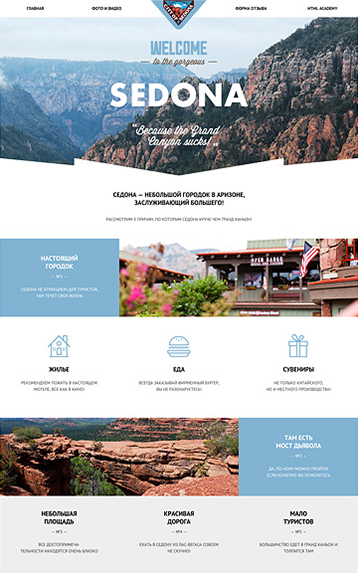
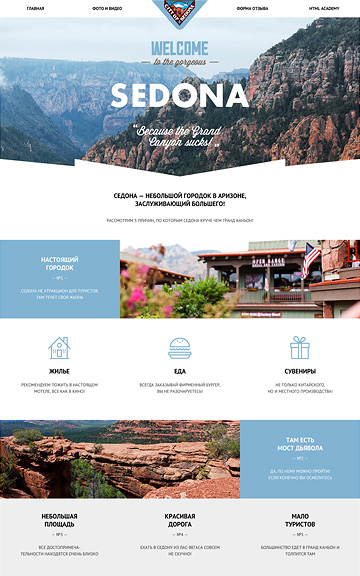
Внесены правки

diff --git a/css/style.min.css b/css/style.min.css
@@ -1,1 +1,1 @@
-body{min-width:1200px;margin:0;padding:0;font-size:16px;font-family:"Roboto","Verdana",sans-serif;font-weight:400;color:#283136;line-height:1.6}a:active,a:focus,button:active,button:focus,input:active,input:focus,textarea:active,textarea:focus{outline:none}h1,h2{font-size:55px;font-family:"Roboto","Verdana",sans-serif;font-weight:medium;color:#000;line-height:1}h2{font-size:24px;font-weight:700}.clearfix::after{content:"";display:table;clear:both}.container{width:1160px;margin:0 auto;padding:0 20px}.main-header{width:100%;margin-bottom:60px;background-color:#eee}.header-top{margin:0 auto}.index-logo{float:left;margin-top:48px}.index-logo a:hover{opacity:.8}.index-logo a:down{opacity:.3}.main-navigation{width:540px;float:left;margin-left:175px;margin-top:64px}.main-navigation ul{margin:0;padding:0;list-style:none;font-size:0}.main-navigation li{display:inline-block;vertical-align:middle;font-size:16px;line-height:30px;margin-left:25px;margin-right:23px}.main-navigation a{display:block;padding-top:10px;padding-bottom:0;color:#000;text-decoration:none;text-transform:uppercase;border-bottom:3px solid transparent}.cart:hover,.main-navigation a:hover{color:#fb565a}.main-navigation .active a{color:#fb565a;border-bottom:3px solid #fb565a}.main-navigation a:disabled{color:#000;opacity:30%}.shopping-cart{float:right;max-width:160px;margin-top:64px}.cart,.slider{position:relative}.cart{display:block;padding-top:10px;padding-bottom:0;padding-left:46px;font-size:16px;line-height:30px;color:#000;text-decoration:none;text-transform:uppercase}.cart:active{border-bottom:3px solid #fb565a}.cart::before{content:"";position:absolute;display:block;top:10px;left:0;width:30px;height:30px;background:url(../img/sprite.png) no-repeat}.slider{max-width:1160px;height:426px;margin:0 auto}.slider input[type=radio]{position:absolute;opacity:0}.slider-controls{position:absolute;bottom:100px;left:50%;width:200px;height:18px;margin-left:-100px;text-align:center;z-index:1000}.slider-controls label{display:inline-block;width:4px;height:4px;margin:0 6px;background:#fff;border:7px solid #fff;vertical-align:middle;border-radius:50%;cursor:pointer}#btn-1:checked~.slider-controls label[for=btn-1],#btn-2:checked~.slider-controls label[for=btn-2],#btn-3:checked~.slider-controls label[for=btn-3]{background:#fff;border:2px solid #c1c1c1;box-shadow:0 0 0 5px #fff;margin:0 11px}.slide{position:absolute;top:0;left:0;width:100%;height:100%;overflow:hidden}.slide-text{width:540px;padding:30px 0;color:#283136}.slide-title{font-size:55px;line-height:1;font-weight:500;color:#000;margin:42px 0 24px}.slide .btn{display:block;width:240px;padding:12px 0;margin-top:38px;font-size:16px;color:#fff;text-transform:uppercase;text-align:center;text-decoration:none;background:#fb565a;border-radius:3px;border:none;cursor:pointer}.slide:nth-child(1),.slide:nth-child(2),.slide:nth-child(3){background-image:url(../img/slider-1.jpg);background-repeat:no-repeat;background-position:100% 10px}.slide:nth-child(2),.slide:nth-child(3){background-image:url(../img/slider-2.jpg)}.slide:nth-child(3){background-image:url(../img/slider-3.jpg);background-position:100% 0}.feature-checkbox input[type=checkbox],.feature-radio input[type=radio],.slide{display:none}#btn-1:checked~.slides .slide:nth-child(1),#btn-2:checked~.slides .slide:nth-child(2),#btn-3:checked~.slides .slide:nth-child(3){display:block}.inner{margin:0;padding:36px 100px 70px}.slogan-title{text-align:center;font-size:55px;line-height:55px;font-weight:500}.block-title{margin:0 auto}.category-list{margin-bottom:78px;margin-top:80px}.category{width:300px;float:left;margin-right:100px;min-height:348px;text-align:left}.category:last-child{margin-right:0}.btn,.category-name{display:block;font-size:24px;line-height:30px;text-transform:uppercase;margin-top:17px}.btn{display:inline-block;width:160px;padding:12px 0;font-weight:medium;text-align:center;margin-top:16px;font-size:16px;line-height:26px;font-family:"Roboto","Verdana",sans-serif;color:#fff;text-decoration:none;background-color:#fb565a;border-radius:3px;border:none;cursor:pointer}.btn:hover{background-color:#e74246}.btn:active{background-color:#d7373b;color:rgba(255,255,255,.3);box-shadow:0 3px 0 rgba(0,0,0,.1) inset}.category .green{background-color:#00ca74}.category .green:hover{background-color:#00bc6c}.category .green:active{background-color:#00aa62;color:rgba(255,255,255,.3)}.category .yellow{background-color:#efc84a}.category .yellow:hover{background-color:#eab534}.category .yellow:active{background-color:#e5a722;color:rgba(255,255,255,.3)}.company-information{border-top:2px solid #eee;padding-bottom:50px}.information-left{width:680px;float:left}.information-title{display:block;margin-top:74px;margin-bottom:30px;font-size:45px;line-height:45px;font-weight:500}.list-title{display:block;font-weight:700;text-transform:uppercase;margin-top:40px;margin-bottom:20px}.list-information{padding:0;margin:0;list-style:none}.list-information li{position:relative;padding-left:35px;margin-bottom:24px}.list-information li::before{content:"";position:absolute;z-index:20;left:0;top:50%;margin-top:-1px;width:25px;height:2px;background:#fb565a}.information-right{width:360px;float:right;margin-top:42px}.information-right .list-title{margin-top:26px;text-align:center}.features{margin-top:28px}.feature{display:inline-block;vertical-align:top;margin-right:15px}.feature:last-child{margin-right:0}.feature-percents{font-size:45px;font-weight:600;margin:0 0 4px}.percent{vertical-align:super}.feature-info{margin:0;line-height:18px;width:100px}.percent{font-size:24px}.logo-partners{margin-bottom:82px;font-size:0;border-top:2px solid #eee;border-bottom:2px solid #eee}.logo,.stripe{display:inline-block;margin-right:19px}.logo{min-height:180px;vertical-align:top;opacity:.2;width:260px}.stripe{width:2px;height:52px;background-color:#eee;margin-top:64px}.partner-4{margin-right:0}.feature-radio input[type=radio]+.radio-indicator:hover,.logo:hover{opacity:1}.logo:down{opacity:.1}.catalog{margin-bottom:58px}.block-left{width:258px;float:left;margin-right:140px;padding:0}.block-right{width:760px;float:right}.filter-price{width:260px;min-height:218px;margin:-18px 0 45px}.filter-title,.filter-title-price{display:block;font-size:18px;line-height:1;font-weight:700;text-transform:uppercase}.filter-title-price{letter-spacing:1px;margin-bottom:56px}.filter-title{margin-bottom:20px}.filter-grid{width:260px;min-height:142px;margin-bottom:48px}.filter-features{min-width:260px;min-height:222px;margin-bottom:45px}.range-filter{width:260px;margin-bottom:63px}.range-controls{position:relative;height:41px;padding-top:39px;padding-right:20px;padding-left:20px;margin-bottom:15px;border-radius:5px;background:#f1f1f1}.range-controls .scale{height:2px;background:#d7dcde}.range-controls .bar{width:70%;height:2px;background:#00ca74}.range-controls .toggle{position:absolute;top:30px;left:0;width:4px;height:4px;cursor:pointer;border:8px solid #fff;border-radius:50%;background:#ababab;box-shadow:0 2px 1px 0 #cfcfcf}.range-controls .toggle-min{left:50px}.range-controls .toggle-max{left:110px}.price-controls{font-size:0}.price-controls label{display:inline-block;font-size:16px;width:50%;text-transform:uppercase}.max-price{text-align:right}.price-controls input{font-family:'Roboto','Arial',sans-serif;font-size:16px;width:60px;margin-left:10px;padding:8px 10px;text-align:center;color:#283136;border:none;border-radius:5px;background:#f1f1f1}.feature-radio{display:block;position:relative;cursor:pointer;margin:14px 0;padding-left:36px;color:#283136}.feature-radio input[type=radio]+.radio-indicator{width:18px;height:18px;border:3px solid #4d4d4d;opacity:.4;border-radius:16px;position:absolute;top:2px;left:0}.feature-radio input[type=checkbox]:checked+.radio-indicator::after,.feature-radio input[type=checkbox]:checked+.radio-indicator::before{content:"";position:absolute;width:8px;height:8px;background:#4d4d4d;border-radius:50%;top:10px;left:10px}.feature-radio input[type=radio]:checked+.radio-indicator::before{display:none}.feature-radio input[type=radio]:checked+.radio-indicator::after{content:"";position:absolute;width:8px;height:8px;background:#4d4d4d;border-radius:50%;top:5px;left:5px}.feature-radio input[type=radio]+.radio-indicator:disbled{opacity:.1}.feature-checkbox{display:block;position:relative;cursor:pointer;margin:14px 0;padding-left:36px;color:#283136}.feature-checkbox input[type=checkbox]+.checkbox-indicator{position:absolute;top:0;left:0;width:27px;height:23px;background:url(../img/checkbox-off.png) no-repeat;opacity:.4}.feature-checkbox input[type=checkbox]:checked+.checkbox-indicator::before{content:"";position:absolute;width:27px;height:23px;background:url(../img/checkbox-on.png) no-repeat}.feature-checkbox input[type=checkbox]:checked+.checkbox-indicator::after{content:"";position:absolute;width:27px;height:23px}.feature-checkbox input[type=checkbox]:checked+.checkbox-indicator::before{display:none}.feature-checkbox input[type=checkbox]:checked+.checkbox-indicator::after{background:url(../img/checkbox-on.png) no-repeat}.feature-checkbox input[type=checkbox]+.checkbox-indicator:hover{opacity:1}.feature-checkbox input[type=checkbox]+.checkbox-indicator:disabled{opacity:.1}.block-sorting{width:760px;margin:-20px 0 32px}.filter-title-sorting{float:left;width:100px;font-size:18px;line-height:18px;font-weight:700;text-transform:uppercase;margin-bottom:20px}.sorting{float:right;width:366px;margin-top:16px;margin-bottom:20px}.sorting-list{margin:0;padding:0;list-style:none}.sorting-list li{display:inline-block;margin-left:15px}.sorting-list a,.sorting-list span{display:block;text-decoration:none;font-size:14px;color:#000;text-transform:uppercase;opacity:.3}.sorting-list .next,.sorting-list .prew{width:10px;height:10px;background-position:0 0;margin-right:0}.sorting-list .prew{background:url(../img/sort-down.png) no-repeat;opacity:1;margin-left:30px}.sorting-list .next{background:url(../img/sort-up.png) no-repeat;margin-left:0}.sorting-list .current{opacity:1}.sorting-list a:hover{opacity:.6}.goods-list{width:760px;font-size:0;margin-bottom:60px}.goods-item{width:360px;height:100%;display:inline-block;margin-right:40px;margin-bottom:40px;vertical-align:top;border-top:40px solid #e9e9e9;border-radius:3px;position:relative;transition:border-color .1s ease-in-out}.goods-item:hover{border-top:40px solid #4d4d4d}.goods-item-inner{box-shadow:0 0 1px #e5e5e5;transition:box-shadow .1s ease-in-out}.goods-item-inner:hover{box-shadow:0 6px 15px rgba(0,0,0,.25)}.goods-item img{max-width:100%}.goods-item::before{content:"";width:14px;height:14px;background:#fff;position:absolute;z-index:2;left:15px;top:-27px;border-radius:50%;box-shadow:25px 0 0 #fff,50px 0 0 0 #fff}.goods-item:nth-child(2n){margin-right:0}.goods-item:nth-child(5),.goods-item:nth-child(6){margin-bottom:0}.good-description{position:absolute;left:0;bottom:0;width:100%;background-color:#eee;padding:0;display:none;opacity:0}.goods-item:hover .good-description{border-color:#4d4d4d;display:block;opacity:1;transition:opacity 1s ease-in-out}.goods-info,.goods-title{display:block;text-align:center}.goods-title{font-weight:700;text-transform:uppercase;width:100%;font-size:18px;color:#000;margin:36px 0 15px}.goods-info{font-size:16px;margin:auto 0 0;line-height:18px;color:#666}.good-description .btn{display:block;width:200px;margin:30px auto 44px}.paginator{width:500px;float:left;min-height:50px;margin-right:400px}.paginator .btn-grey{padding:12px 0;margin-right:8px}.paginator .next{padding:12px 78px}.paginator .current{min-width:44px;padding:9px 0;margin-right:8px;background-color:#fff;border:3px solid #dbdbdb;pointer-events:none;cursor:default}.contacts-block{position:relative;width:100%;height:418px;background:url(../img/map_background.jpg) no-repeat center}.adress .container{position:absolute;margin-top:54px;margin-bottom:54px}.adress-block{position:absolute;top:54px;width:220px;min-height:210px;background-color:#fff;padding:50px;box-shadow:0 0 .5px .5px #e8e8e8}.adress-block .list-title{margin:0;font-size:18px}.adress-block .btn{width:220px}.adress-content{line-height:18px;color:#666;margin-top:20px}.phone{color:#666}.main-footer{margin-right:auto;margin-left:auto;padding-top:65px;padding-bottom:66px}.footer-social{float:left;width:300px;margin-right:100px}.social-btn{display:inline-block;width:78px;height:78px;margin:0 8px 0 0;border-radius:50%;background:#e1e1e1;vertical-align:top;font-size:0;text-decoration:none}.social-btn:hover{background-color:#e74246}.social-btn:active{background:#d7373b;box-shadow:0 3px 0 rgba(0,0,0,.1) inset}.social-btn-fb::before,.social-btn-inst::before,.social-btn-vk::before{display:block;content:"";background-image:url(../img/sprite.png);background-position:-30px 3px;margin-left:26px;margin-top:23px;background-color:transparent;background-repeat:no-repeat;height:30px;width:26px}.social-btn-fb:active::before,.social-btn-inst:active::before,.social-btn-vk:active::before{opacity:.3}.social-btn-fb::before,.social-btn-inst::before{background-position:-68px 0;margin-left:32px;margin-top:25px;width:24px}.social-btn-inst::before{background-position:-90px 0;margin-left:25px;height:25px;width:25px}.footer-slogan{float:left;width:700px;padding-top:5px}.slogan{font-size:36px;line-height:36px;font-weight:700;margin:0}.btn-grey{display:inline-block;min-width:50px;padding:12px 90px;font-weight:500;text-align:center;font-size:16px;line-height:26px;font-family:"Roboto","Verdana",sans-serif;color:#000;text-transform:uppercase;text-decoration:none;background-color:#eee;border-radius:3px;border:none;cursor:pointer}.btn-grey:hover{background-color:#dfdfdf}.btn-grey:down{background-color:#d5d5d5;box-shadow:2px #bfbfbf;color:#a9a9a9}.btn-grey:active{background-color:#d5d5d5;color:rgba(0,0,0,.3);box-shadow:0 3px 0 rgba(0,0,0,.1) inset}@keyframes bounce{0%{transform:translateY(-2000px)}70%{transform:translateY(30px)}90%{transform:translateY(-10px)}to{transform:translateY(0)}}@keyframes shake{0%,to{transform:translateX(0)}10%,30%,50%,70%,90%{transform:translateX(-10px)}20%,40%,60%,80%{transform:translateX(10px)}}.modal-content{position:fixed;top:60px;left:50%;margin-left:-474px;width:760px;min-height:360px;padding:60px 96px;color:#000;background-color:#fff;box-shadow:0 30px 30px rgba(0,0,0,.75);display:none;z-index:10}.modal-content-show{display:block;animation:bounce .6s}.modal-error{animation:shake .6s}.modal-content-close{position:absolute;top:76px;right:90px;width:26px;height:26px;font-size:0;opacity:.3;border:0;cursor:pointer;background:0 0}.modal-content-close::after,.modal-content-close::before{content:"";position:absolute;z-index:11;left:0;width:26px;height:4px;background:#fb565a;transform:rotate(45deg)}.modal-content-close::after{transform:rotate(-45deg)}.modal-content-close:hover{opacity:1}.modal-content-close:down{opacity:.1}.modal-content p{margin:0 0 36px;min-width:320px;font-size:45px;line-height:1;font-weight:500;font-family:"Roboto","Verdana",sans-serif;color:#000}.input-name{float:left;width:360px;margin-right:0}.input-mail{float:right;width:360px}.input-popup,.text-message .input-popup{border:2px solid #d7dcde;border-radius:3px}.input-popup{padding:0 0 0 12px;width:356px;height:46px}.text-message textarea{padding:14px 0 0 12px;resize:none}.text-message .input-popup{width:756px;height:114px}.input-popup:hover{border:2px solid #b4b9bb}.input-popup:active,.input-popup:focus{border:2px solid #000}.input-popup:error{border:2px solid #e74246}.input-mail label,.input-name label,.text-message label{display:block;width:150px;margin:0 0 10px}.text-message{margin:34px 0 30px}.input-caption{font-size:16px;line-height:18px;font-weight:700;color:#000;opacity:1}.modal-content .btn{width:260px;margin-bottom:25px}.contacts-map{width:100%;height:415px}
+body{min-width:1200px;margin:0;padding:0;font-size:16px;font-family:"Roboto","Verdana",sans-serif;font-weight:400;color:#283136;line-height:1.6}a:active,a:focus,button:active,button:focus,input:active,input:focus,textarea:active,textarea:focus{outline:none}h1,h2{font-size:55px;font-family:"Roboto","Verdana",sans-serif;font-weight:500;color:#000;line-height:1}h2{font-size:24px;font-weight:700}.clearfix::after{content:"";display:table;clear:both}.container{width:1160px;margin:0 auto;padding:0 20px}.main-header{width:100%;margin-bottom:60px;background-color:#eee}.header-top{margin:0 auto}.index-logo{float:left;margin-top:48px}.index-logo a:hover{opacity:.8}.index-logo a:down{opacity:.3}.main-navigation{width:540px;float:left;margin-left:175px;margin-top:64px}.main-navigation ul{margin:0;padding:0;list-style:none;font-size:0}.main-navigation li{display:inline-block;vertical-align:middle;font-size:16px;line-height:30px;margin-left:25px;margin-right:23px}.main-navigation a{display:block;padding-top:10px;padding-bottom:0;color:#000;text-decoration:none;text-transform:uppercase;border-bottom:3px solid transparent}.cart:hover,.main-navigation a:hover{color:#fb565a}.main-navigation .active a{color:#fb565a;border-bottom:3px solid #fb565a}.main-navigation a:disabled{color:#000;opacity:30%}.shopping-cart{float:right;max-width:160px;margin-top:64px}.cart,.slider{position:relative}.cart{display:block;padding-top:10px;padding-bottom:0;padding-left:46px;font-size:16px;line-height:30px;color:#000;text-decoration:none;text-transform:uppercase}.cart:active{border-bottom:3px solid #fb565a}.cart::before{content:"";position:absolute;display:block;top:10px;left:0;width:30px;height:30px;background:url(../img/sprite.png) no-repeat}.slider{max-width:1160px;height:426px;margin:0 auto}.slider input[type=radio]{position:absolute;opacity:0}.slider-controls{position:absolute;bottom:100px;left:50%;width:200px;height:18px;margin-left:-100px;text-align:center;z-index:1000}.slider-controls label{display:inline-block;width:4px;height:4px;margin:0 6px;background:#fff;border:7px solid #fff;vertical-align:middle;border-radius:50%;cursor:pointer}#btn-1:checked~.slider-controls label[for=btn-1],#btn-2:checked~.slider-controls label[for=btn-2],#btn-3:checked~.slider-controls label[for=btn-3]{background:#fff;border:2px solid #c1c1c1;box-shadow:0 0 0 5px #fff;margin:0 11px}.slide{position:absolute;top:0;left:0;width:100%;height:100%;overflow:hidden}.slide-text{width:540px;padding:30px 0;color:#283136}.slide-title{font-size:55px;line-height:1;font-weight:500;color:#000;margin:42px 0 24px}.slide .btn{display:block;width:240px;padding:12px 0;margin-top:38px;font-size:16px;color:#fff;text-transform:uppercase;text-align:center;text-decoration:none;background:#fb565a;border-radius:3px;border:none;cursor:pointer}.slide:nth-child(1),.slide:nth-child(2),.slide:nth-child(3){background-image:url(../img/slider-1.jpg);background-repeat:no-repeat;background-position:100% 10px}.slide:nth-child(2),.slide:nth-child(3){background-image:url(../img/slider-2.jpg)}.slide:nth-child(3){background-image:url(../img/slider-3.jpg);background-position:100% 0}.feature-checkbox input[type=checkbox],.feature-radio input[type=radio],.slide{display:none}#btn-1:checked~.slides .slide:nth-child(1),#btn-2:checked~.slides .slide:nth-child(2),#btn-3:checked~.slides .slide:nth-child(3){display:block}.inner{margin:0;padding:36px 100px 70px}.slogan-title{text-align:center;font-size:55px;line-height:55px;font-weight:500}.block-title{margin:0 auto}.category-list{margin-bottom:78px;margin-top:80px}.category{width:300px;float:left;margin-right:100px;min-height:348px;text-align:left}.category:last-child{margin-right:0}.btn,.category-name{display:block;font-size:24px;line-height:30px;text-transform:uppercase;margin-top:17px}.btn{display:inline-block;width:160px;padding:12px 0;font-weight:500;text-align:center;vertical-align:top;margin-top:16px;font-size:16px;line-height:26px;font-family:"Roboto","Verdana",sans-serif;color:#fff;text-decoration:none;background-color:#fb565a;border-radius:3px;border:none;cursor:pointer}.btn:hover{background-color:#e74246}.btn:active{background-color:#d7373b;color:rgba(255,255,255,.3);box-shadow:0 3px 0 rgba(0,0,0,.1) inset}.category .green{background-color:#00ca74}.category .green:hover{background-color:#00bc6c}.category .green:active{background-color:#00aa62;color:rgba(255,255,255,.3)}.category .yellow{background-color:#efc84a}.category .yellow:hover{background-color:#eab534}.category .yellow:active{background-color:#e5a722;color:rgba(255,255,255,.3)}.company-information{border-top:2px solid #eee;padding-bottom:50px}.information-left{width:680px;float:left}.information-title{display:block;margin-top:74px;margin-bottom:30px;font-size:45px;line-height:45px;font-weight:500}.list-title{display:block;font-weight:700;text-transform:uppercase;margin-top:40px;margin-bottom:20px}.list-information{padding:0;margin:0;list-style:none}.list-information li{position:relative;padding-left:35px;margin-bottom:24px}.list-information li::before{content:"";position:absolute;z-index:20;left:0;top:50%;margin-top:-1px;width:25px;height:2px;background:#fb565a}.information-right{width:360px;float:right;margin-top:42px}.information-right .list-title{margin-top:26px;text-align:center}.features{margin-top:28px}.feature{display:inline-block;vertical-align:top;margin-right:15px}.feature:last-child{margin-right:0}.feature-percents{font-size:45px;font-weight:600;margin:0 0 4px}.percent{vertical-align:super}.feature-info{margin:0;line-height:18px;width:100px}.percent{font-size:24px}.logo-partners{margin-bottom:82px;font-size:0;border-top:2px solid #eee;border-bottom:2px solid #eee}.logo,.stripe{display:inline-block;vertical-align:top;margin-right:19px}.logo{min-height:180px;opacity:.2;width:260px}.stripe{width:2px;height:52px;background-color:#eee;margin-top:64px}.partner-4{margin-right:0}.feature-radio input[type=radio]+.radio-indicator:hover,.logo:hover{opacity:1}.logo:down{opacity:.1}.catalog{margin-bottom:58px}.block-left{width:258px;float:left;margin-right:140px;padding:0}.block-right{width:760px;float:right}.filter-price{width:260px;min-height:218px;margin:-18px 0 45px}.filter-title,.filter-title-price{display:block;font-size:18px;line-height:1;font-weight:700;text-transform:uppercase}.filter-title-price{letter-spacing:1px;margin-bottom:56px}.filter-title{margin-bottom:20px}.filter-grid{width:260px;min-height:142px;margin-bottom:48px}.filter-features{min-width:260px;min-height:222px;margin-bottom:45px}.range-filter{width:260px;margin-bottom:63px}.range-controls{position:relative;height:41px;padding-top:39px;padding-right:20px;padding-left:20px;margin-bottom:15px;border-radius:5px;background:#f1f1f1}.range-controls .scale{height:2px;background:#d7dcde}.range-controls .bar{width:70%;height:2px;background:#00ca74}.range-controls .toggle{position:absolute;top:30px;left:0;width:4px;height:4px;cursor:pointer;border:8px solid #fff;border-radius:50%;background:#ababab;box-shadow:0 2px 1px 0 #cfcfcf}.range-controls .toggle-min{left:50px}.range-controls .toggle-max{left:110px}.price-controls{font-size:0}.price-controls label{display:inline-block;vertical-align:middle;font-size:16px;width:50%;text-transform:uppercase}.max-price{text-align:right}.price-controls input{font-family:"Roboto","Arial",sans-serif;font-size:16px;width:60px;margin-left:10px;padding:8px 10px;text-align:center;color:#283136;border:none;border-radius:5px;background:#f1f1f1}.feature-radio{display:block;position:relative;cursor:pointer;margin:14px 0;padding-left:36px;color:#283136}.feature-radio input[type=radio]+.radio-indicator{width:18px;height:18px;border:3px solid #4d4d4d;opacity:.4;border-radius:16px;position:absolute;top:2px;left:0}.feature-radio input[type=checkbox]:checked+.radio-indicator::after,.feature-radio input[type=checkbox]:checked+.radio-indicator::before{content:"";position:absolute;width:8px;height:8px;background:#4d4d4d;border-radius:50%;top:10px;left:10px}.feature-radio input[type=radio]:checked+.radio-indicator::before{display:none}.feature-radio input[type=radio]:checked+.radio-indicator::after{content:"";position:absolute;width:8px;height:8px;background:#4d4d4d;border-radius:50%;top:5px;left:5px}.feature-radio input[type=radio]+.radio-indicator:disbled{opacity:.1}.feature-checkbox{display:block;position:relative;cursor:pointer;margin:14px 0;padding-left:36px;color:#283136}.feature-checkbox input[type=checkbox]+.checkbox-indicator{position:absolute;top:0;left:0;width:27px;height:23px;background:url(../img/checkbox-off.png) no-repeat;opacity:.4}.feature-checkbox input[type=checkbox]:checked+.checkbox-indicator::before{content:"";position:absolute;width:27px;height:23px;background:url(../img/checkbox-on.png) no-repeat}.feature-checkbox input[type=checkbox]:checked+.checkbox-indicator::after{content:"";position:absolute;width:27px;height:23px}.feature-checkbox input[type=checkbox]:checked+.checkbox-indicator::before{display:none}.feature-checkbox input[type=checkbox]:checked+.checkbox-indicator::after{background:url(../img/checkbox-on.png) no-repeat}.feature-checkbox input[type=checkbox]+.checkbox-indicator:hover{opacity:1}.feature-checkbox input[type=checkbox]+.checkbox-indicator:disabled{opacity:.1}.block-sorting{width:760px;margin:-20px 0 32px}.filter-title-sorting{float:left;width:100px;font-size:18px;line-height:18px;font-weight:700;text-transform:uppercase;margin-bottom:20px}.sorting{float:right;width:366px;margin-top:16px;margin-bottom:20px}.sorting-list{margin:0;padding:0;list-style:none}.sorting-list li{display:inline-block;vertical-align:middle;margin-left:15px}.sorting-list a,.sorting-list span{display:block;text-decoration:none;font-size:14px;color:#000;text-transform:uppercase;opacity:.3}.sorting-list .next,.sorting-list .prew{width:10px;height:10px;background-position:0 0;margin-right:0}.sorting-list .prew{background:url(../img/sort-down.png) no-repeat;opacity:1;margin-left:30px}.sorting-list .next{background:url(../img/sort-up.png) no-repeat;margin-left:0}.sorting-list .current{opacity:1}.sorting-list a:hover{opacity:.6}.goods-list{width:760px;font-size:0;margin-bottom:20px}.goods-item{width:360px;height:100%;display:inline-block;margin-right:40px;margin-bottom:40px;vertical-align:top;border-top:40px solid #e9e9e9;border-radius:3px;position:relative;transition:border-color .1s ease-in-out}.goods-item:hover{border-top:40px solid #4d4d4d}.goods-item-inner{box-shadow:0 0 1px #e5e5e5;transition:box-shadow .1s ease-in-out}.goods-item-inner:hover{box-shadow:0 6px 15px rgba(0,0,0,.25)}.goods-item img{max-width:100%}.goods-item::before{content:"";width:14px;height:14px;background:#fff;position:absolute;z-index:2;left:15px;top:-27px;border-radius:50%;box-shadow:25px 0 0 #fff,50px 0 0 0 #fff}.goods-item:nth-child(2n){margin-right:0}.good-description{position:absolute;left:0;bottom:0;width:100%;background-color:#eee;padding:0;display:none;opacity:0}.goods-item:hover .good-description{border-color:#4d4d4d;display:block;opacity:1;transition:opacity 1s ease-in-out}.goods-info,.goods-title{display:block;text-align:center}.goods-title{font-weight:700;text-transform:uppercase;width:100%;font-size:18px;color:#000;margin:36px 0 15px}.goods-info{font-size:16px;margin:auto 0 0;line-height:18px;color:#666}.good-description .btn{display:block;width:200px;margin:30px auto 44px}.paginator{width:500px;float:left;min-height:50px;margin-right:400px}.paginator .btn-grey{padding:12px 0;margin-right:8px}.paginator .next{padding:12px 78px}.paginator .current{min-width:44px;padding:9px 0;margin-right:8px;background-color:#fff;border:3px solid #dbdbdb;pointer-events:none;cursor:default}.contacts-block{position:relative;width:100%;height:418px;background:url(../img/map_background.jpg) no-repeat center}.adress .container{position:absolute;margin-top:54px;margin-bottom:54px}.adress-block{position:absolute;top:54px;width:220px;min-height:210px;background-color:#fff;padding:50px;box-shadow:0 0 .5px .5px #e8e8e8}.adress-block .list-title{margin:0;font-size:18px}.adress-block .btn{width:220px}.adress-content{line-height:18px;color:#666;margin-top:20px}.phone{color:#666}.main-footer{margin-right:auto;margin-left:auto;padding-top:65px;padding-bottom:66px}.footer-social{float:left;width:300px;margin-right:100px}.social-btn{display:inline-block;width:78px;height:78px;margin:0 8px 0 0;border-radius:50%;background:#e1e1e1;vertical-align:top;font-size:0;text-decoration:none}.social-btn:hover{background-color:#e74246}.social-btn:active{background:#d7373b;box-shadow:0 3px 0 rgba(0,0,0,.1) inset}.social-btn-fb::before,.social-btn-inst::before,.social-btn-vk::before{display:block;content:"";background-image:url(../img/sprite.png);background-position:-30px 3px;margin-left:26px;margin-top:23px;background-color:transparent;background-repeat:no-repeat;height:30px;width:26px}.social-btn-fb:active::before,.social-btn-inst:active::before,.social-btn-vk:active::before{opacity:.3}.social-btn-fb::before,.social-btn-inst::before{background-position:-68px 0;margin-left:32px;margin-top:25px;width:24px}.social-btn-inst::before{background-position:-90px 0;margin-left:25px;height:25px;width:25px}.footer-slogan{float:left;width:700px;padding-top:5px}.slogan{font-size:36px;line-height:36px;font-weight:700;margin:0}.btn-grey{display:inline-block;min-width:50px;padding:12px 90px;font-weight:500;text-align:center;font-size:16px;line-height:26px;font-family:"Roboto","Verdana",sans-serif;color:#000;text-transform:uppercase;text-decoration:none;background-color:#eee;border-radius:3px;border:none;cursor:pointer}.btn-grey:hover{background-color:#dfdfdf}.btn-grey:down{background-color:#d5d5d5;box-shadow:2px #bfbfbf;color:#a9a9a9}.btn-grey:active{background-color:#d5d5d5;color:rgba(0,0,0,.3);box-shadow:0 3px 0 rgba(0,0,0,.1) inset}@keyframes bounce{0%{transform:translateY(-2000px)}70%{transform:translateY(30px)}90%{transform:translateY(-10px)}to{transform:translateY(0)}}@keyframes shake{0%,to{transform:translateX(0)}10%,30%,50%,70%,90%{transform:translateX(-10px)}20%,40%,60%,80%{transform:translateX(10px)}}.modal-content{position:fixed;top:60px;left:50%;margin-left:-474px;width:760px;min-height:360px;padding:60px 96px;color:#000;background-color:#fff;box-shadow:0 30px 30px rgba(0,0,0,.75);display:none;z-index:10}.modal-content-show{display:block;animation:bounce .6s}.modal-error{animation:shake .6s}.modal-content-close{position:absolute;top:76px;right:90px;width:26px;height:26px;font-size:0;opacity:.3;border:0;cursor:pointer;background:0 0}.modal-content-close::after,.modal-content-close::before{content:"";position:absolute;z-index:11;left:0;width:26px;height:4px;background:#fb565a;-webkit-transform:rotate(45deg);-ms-transform:rotate(45deg);transform:rotate(45deg)}.modal-content-close::after{-webkit-transform:rotate(-45deg);-ms-transform:rotate(-45deg);transform:rotate(-45deg)}.modal-content-close:hover{opacity:1}.modal-content-close:active{opacity:.1}.modal-content p{margin:0 0 36px;min-width:320px;font-size:45px;line-height:1;font-weight:500;font-family:"Roboto","Verdana",sans-serif;color:#000}.input-name{float:left;width:360px;margin-right:0}.input-mail{float:right;width:360px}.input-popup,.text-message .input-popup{border:2px solid #d7dcde;border-radius:3px}.input-popup{padding:0 0 0 12px;width:356px;height:46px}.text-message textarea{padding:14px 0 0 12px;resize:none}.text-message .input-popup{width:756px;height:114px}.input-popup:hover{border:2px solid #b4b9bb}.input-popup:active,.input-popup:focus{border:2px solid #000}.modal-error .input-popup{border:2px solid #e74246;color:#e74246}.input-mail label,.input-name label,.text-message label{display:block;width:150px;margin:0 0 10px}.text-message{margin:34px 0 30px}.input-caption{font-size:16px;line-height:18px;font-weight:700;color:#000;opacity:1}.modal-content .btn{width:260px;margin-bottom:25px}.contacts-map{width:100%;height:415px}

diff --git a/catalog.html b/catalog.html
@@ -7,7 +7,6 @@
     <link href="https://fonts.googleapis.com/css?family=Roboto:400,500,700&amp;subset=cyrillic" rel="stylesheet">
     <link href="css/normalize.css" rel="stylesheet">
     <link href="css/style.min.css" rel="stylesheet">
-    <script src="http://api-maps.yandex.ru/2.1/?lang=ru_RU" type="text/javascript"></script>
 </head>
 
 <body>
@@ -118,7 +117,7 @@
             <div class="goods-list">
                 <div class="goods-item">
                     <div class="goods-item-inner">
-                        <img src="img/img-sedona.jpg" class="layout" alt="Sedona">
+                        <img src="img/img-sedona.jpg" class="layout" width="360" height="576" alt="Sedona">
                         <div class="good-description">
                             <div class="goods-title">SEDONA</div>
                             <div class="goods-info">Информационный сайт
@@ -131,7 +130,7 @@
                 </div>
                 <div class="goods-item">
                     <div class="goods-item-inner">
-                        <img src="img/img-pink.jpg" class="layout" alt="Pink">
+                        <img src="img/img-pink.jpg" class="layout" width="360" height="576" alt="Pink">
                         <div class="good-description">
                             <div class="goods-title">PINK APP</div>
                             <div class="goods-info">Продуктовый лендинг
@@ -144,7 +143,7 @@
                 </div>
                 <div class="goods-item">
                     <div class="goods-item-inner">
-                        <img src="img/img-barbershop.jpg" class="layout" alt="Barbershop">
+                        <img src="img/img-barbershop.jpg" class="layout" width="360" height="576" alt="Barbershop">
                         <div class="good-description">
                             <div class="goods-title">BARBERSHOP</div>
                             <div class="goods-info">Сайтсалона красоты.
@@ -157,7 +156,7 @@
                 </div>
                 <div class="goods-item">
                     <div class="goods-item-inner">
-                        <img src="img/img-mishka.jpg" class="layout" alt="Mishka">
+                        <img src="img/img-mishka.jpg" class="layout" width="360" height="576" alt="Mishka">
                         <div class="good-description">
                             <div class="goods-title">MISHKA</div>
                             <div class="goods-info">Интернет-магазин
@@ -170,7 +169,7 @@
                 </div>
                 <div class="goods-item">
                     <div class="goods-item-inner">
-                        <img src="img/img-aplus.jpg" class="layout" alt="A-plus">
+                        <img src="img/img-aplus.jpg" class="layout" width="360" height="576" alt="A-plus">
                         <div class="good-description">
                             <div class="goods-title"> A-PLUS</div>
                             <div class="goods-info">Лендинг курсов повышения
@@ -183,7 +182,7 @@
                 </div>
                 <div class="goods-item">
                     <div class="goods-item-inner">
-                        <img src="img/img-kvast.jpg" class="layout" alt="Kvast">
+                        <img src="img/img-kvast.jpg" class="layout" width="360" height="576" alt="Kvast">
                         <div class="good-description">
                             <div class="goods-title">КВАСТ</div>
                             <div class="goods-info">Промо-сайт производителя
@@ -213,7 +212,7 @@
                 <p class="adress-content">191186, Санкт-Петербург,
                     <br>ул. Б. Конюшенная, д. 19/8</p>
                 <p class="phone">тел. +7 (812) 275-75-75</p>
-                <a href="#" class="btn contact-button">Напишите нам</a>
+                <a href="form.html" class="btn contact-button">Напишите нам</a>
             </div>
         </div>
     </div>
@@ -250,6 +249,7 @@
             <input type="submit" value="Отправить" class="btn">
         </form>
     </div>
+    <script src="https://api-maps.yandex.ru/2.1/?lang=ru_RU" type="text/javascript"></script>
     <script src="js/scripts.min.js"></script>
 </body>
 

diff --git a/index.html b/index.html
@@ -7,7 +7,6 @@
     <link href="https://fonts.googleapis.com/css?family=Roboto:400,500,700&amp;subset=cyrillic" rel="stylesheet">
     <link href="css/normalize.css" rel="stylesheet">
     <link href="css/style.min.css" rel="stylesheet">
-    <script src="http://api-maps.yandex.ru/2.1/?lang=ru_RU" type="text/javascript"></script>
 </head>
 
 <body>
@@ -70,19 +69,19 @@
     <main class="container">
         <div class="category-list clearfix">
             <div class="category">
-                <img src="img/illustration-1.jpg" alt="Веб-сайты">
+                <img src="img/illustration-1.jpg" width="300" height="146" alt="Веб-сайты">
                 <b class="category-name">Веб-сайты</b>
                 <p class="category-description">Мир никогда не будет прежним после того как увидит ваш сайт!</p>
                 <a href="#" class="btn">Заказать</a>
             </div>
             <div class="category">
-                <img src="img/illustration-2.jpg" alt="Приложения">
+                <img src="img/illustration-2.jpg" width="300" height="146" alt="Приложения">
                 <b class="category-name">Приложения</b>
                 <p class="category-description">Покорите топ-10 приложений в AppStore и Google Play</p>
                 <a href="#" class="btn green">Заказать</a>
             </div>
             <div class="category">
-                <img src="img/illustration-3.jpg" alt="Презентации">
+                <img src="img/illustration-3.jpg" width="300" height="146" alt="Презентации">
                 <b class="category-name">Презентации</b>
                 <p class="category-description">Вы даже не подозреваете, насколько вы изумительны!</p>
                 <a href="#" class="btn yellow">Заказать</a>
@@ -124,19 +123,19 @@
         <div class="logo-partners">
             <a id="clients"></a>
             <a href="#" class="partner-1 logo" target="_blank">
-                <img src="img/logo_partner1.png" alt="html academy">
+                <img src="img/logo_partner1.png" width="260" height="180" alt="html academy">
             </a>
             <div class="stripe"></div>
             <a href="#" class="partner-2 logo" target="_blank">
-                <img src="img/logo_partner2.png" alt="barbershop borodinsky">
+                <img src="img/logo_partner2.png" width="260" height="180" alt="barbershop borodinsky">
             </a>
             <div class="stripe"></div>
             <a href="#" class="partner-3 logo" target="_blank">
-                <img src="img/logo_partner3.png" alt="pink">
+                <img src="img/logo_partner3.png" width="260" height="180" alt="pink">
             </a>
             <div class="stripe"></div>
             <a href="#" class="partner-4 logo" target="_blank">
-                <img src="img/logo_partner4.png" alt="mishka">
+                <img src="img/logo_partner4.png" width="260" height="180" alt="mishka">
             </a>
         </div>
     </main>
@@ -149,7 +148,7 @@
                 <p class="adress-content">191186, Санкт-Петербург,
                     <br>ул. Б. Конюшенная, д. 19/8</p>
                 <p class="phone">тел. +7 (812) 275-75-75</p>
-                <a href="#" class="btn contact-button">Напишите нам</a>
+                <a href="form.html" class="btn contact-button">Напишите нам</a>
             </div>
         </div>
     </div>
@@ -186,6 +185,7 @@
             <input type="submit" value="Отправить" class="btn">
         </form>
     </div>
+    <script src="https://api-maps.yandex.ru/2.1/?lang=ru_RU" type="text/javascript"></script>
     <script src="js/scripts.min.js"></script>
 </body>
 

diff --git a/css/style.css b/css/style.css
@@ -23,7 +23,7 @@ textarea:focus {
 h1 {
     font-size: 55px;
     font-family: "Roboto", "Verdana", sans-serif;
-    font-weight: medium;
+    font-weight: 500;
     color: #000000;
     line-height: 1;
 }
@@ -31,7 +31,7 @@ h1 {
 h2 {
     font-size: 24px;
     font-family: "Roboto", "Verdana", sans-serif;
-    font-weight: bold;
+    font-weight: 700;
     color: #000000;
     line-height: 1;
 }
@@ -345,8 +345,9 @@ h2 {
     display: inline-block;
     width: 160px;
     padding: 12px 0;
-    font-weight: medium;
+    font-weight: 500;
     text-align: center;
+    vertical-align: top;
     margin-top: 16px;
     font-size: 16px;
     line-height: 26px;
@@ -522,6 +523,7 @@ h2 {
 
 .stripe {
     display: inline-block;
+    vertical-align: top;
     width: 2px;
     height: 52px;
     background-color: #eeeeee;
@@ -658,6 +660,7 @@ h2 {
 
 .price-controls label {
     display: inline-block;
+    vertical-align: middle;
     font-size: 16px;
     width: 50%;
     text-transform: uppercase;
@@ -668,7 +671,7 @@ h2 {
 }
 
 .price-controls input {
-    font-family: 'Roboto', 'Arial', sans-serif;
+    font-family: "Roboto", "Arial", sans-serif;
     font-size: 16px;
     width: 60px;
     margin-left: 10px;
@@ -824,6 +827,7 @@ h2 {
 
 .sorting-list li {
     display: inline-block;
+    vertical-align: middle;
     margin-left: 15px;
 }
 
@@ -867,7 +871,7 @@ h2 {
 .goods-list {
     width: 760px;
     font-size: 0px;
-    margin-bottom: 60px;
+    margin-bottom: 20px;
 }
 
 .goods-item {
@@ -917,13 +921,14 @@ h2 {
     margin-right: 0px;
 }
 
-.goods-item:nth-child(5) {
+
+/*.goods-item:nth-child(5) {
     margin-bottom: 0px;
 }
 
 .goods-item:nth-child(6) {
     margin-bottom: 0px;
-}
+}*/
 
 .good-description {
     position: absolute;
@@ -1267,6 +1272,8 @@ h2 {
     width: 26px;
     height: 4px;
     background: #fb565a;
+    -webkit-transform: rotate(45deg);
+    -ms-transform: rotate(45deg);
     transform: rotate(45deg);
 }
 
@@ -1278,6 +1285,8 @@ h2 {
     width: 26px;
     height: 4px;
     background: #fb565a;
+    -webkit-transform: rotate(-45deg);
+    -ms-transform: rotate(-45deg);
     transform: rotate(-45deg);
 }
 
@@ -1285,7 +1294,7 @@ h2 {
     opacity: 1;
 }
 
-.modal-content-close:down {
+.modal-content-close:active {
     opacity: .1;
 }
 
@@ -1340,8 +1349,9 @@ h2 {
     border: 2px solid #000000;
 }
 
-.input-popup:error {
+.modal-error .input-popup {
     border: 2px solid #e74246;
+    color: #e74246;
 }
 
 .input-name label {
